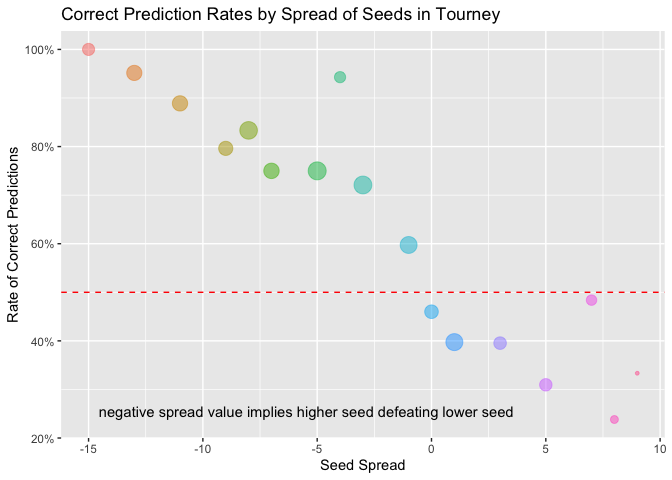
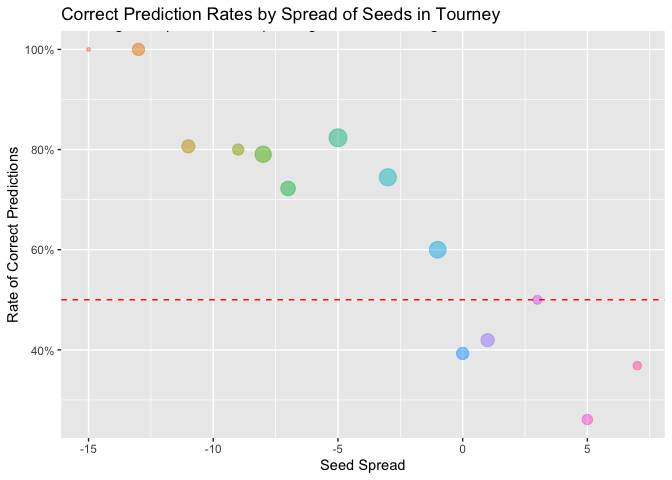
new updates

diff --git a/mens_bb_2021/bayes_pointed_scored.md b/mens_bb_2021/bayes_pointed_scored.md
@@ -211,8 +211,6 @@ instance, although the model was wrong with regards to total 2PT FGs
 made, it did successfully predict the binary outcome of one team having
 more 2 PT FGs. That alone is pretty cool.
 
-    ## [1] 0.06060606
-
 ![](bayes_pointed_scored_files/figure-gfm/look%20at%20ku%20dist-1.png)<!-- -->
 
 The same exercise is carried out for every type of FG (2 PT, 3 PT, and 1
@@ -325,11 +323,6 @@ what you might expect from randomly choosing results.
 
     ## `summarise()` ungrouping output (override with `.groups` argument)
 
-    ## Warning in min(x, na.rm = na.rm): no non-missing arguments to min; returning Inf
-
-    ## Warning in max(x, na.rm = na.rm): no non-missing arguments to max; returning -
-    ## Inf
-
 ![](bayes_pointed_scored_files/figure-gfm/summary%20by%20seed%20spread-1.png)<!-- -->
 
 Additionally, the model doesn’t often grossly underestimate a team’s
@@ -338,3 +331,40 @@ probability estimates for the winning teams are above 50% with very few
 (&lt;13%) below 25%.
 
 ![](bayes_pointed_scored_files/figure-gfm/yes-1.png)<!-- -->
+
+------------------------------------------------------------------------
+
+## **Optimization Attempts**
+
+------------------------------------------------------------------------
+
+It could be the case that defense is being overweighted in our model. To
+test this, we could weight the influence of a team’s offensive
+performance more than that of the defensive performance, implying we
+think a team’s historical offensive performance is a slightly better
+predictor than their defensive performance. We could then compare the
+successful prediction rates across a set of different weightings.
+
+This exercise was performed and it was found to be very true. This
+model’s prediction power is optimized near a weighting of \~35%, where
+prediction accuracy settles around 80-83%. This is a tremendous
+improvement of the previous model, which saw success rates \~67%.
+
+![](bayes_pointed_scored_files/figure-gfm/run%20loop%20to%20find%20optimal%20weighting-1.png)<!-- -->
+
+Predictions rates across our different seed spreads are, as expected,
+also greatly improved. We have an 80% accuracy for any games involving
+seed spreads between -15 and -1. For games with a spread of 0, we have
+an accuracy of 70%, which seems very good for games that most would
+consider a coin-toss. For upsets (seed spreads between 1 and 8), we have
+success rates above 50%.
+
+![](bayes_pointed_scored_files/figure-gfm/summary%20by%20seed%20spread%202-1.png)<!-- -->
+
+Although more research is needed, this drastic improvement might be
+explained by a few interesting anecdotals. One great example is the
+Davidson vs Wisconsin matchup from 2008 that we described earlier.
+Although our old model gave Wisconsin a slight advantage, our new model
+gives Davidson a far greater probability of winning. Our new model would
+have given Davidson a 90% chance of victory compared to the previous
+estimate of 48%.
